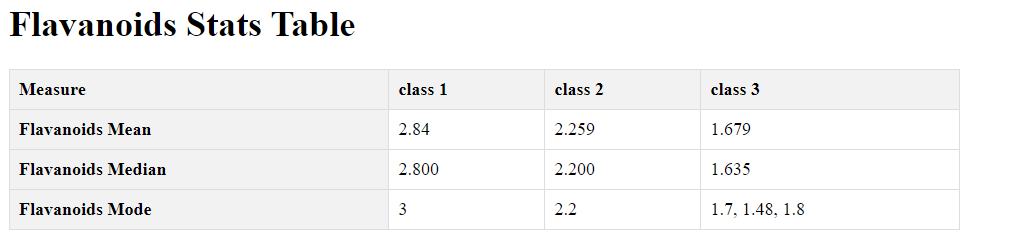
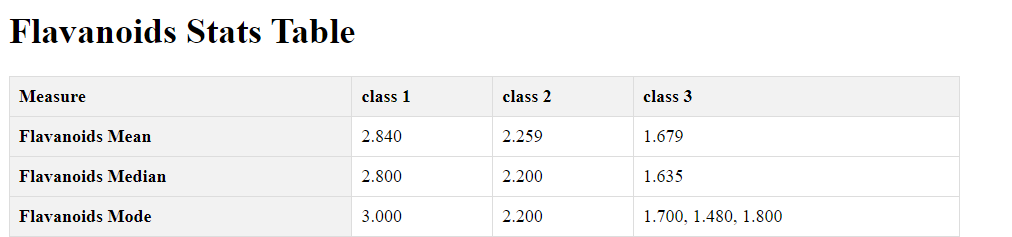
Done

diff --git a/src/components/StatsTable.jsx b/src/components/StatsTable.jsx
@@ -1,4 +1,4 @@
-import React, { useMemo } from 'react'
+import React from 'react'
 import { groupByAlcoholType, mean, median, mode } from '../helper/utilityFunctions.js';
 import '../styles/statsTable.css';
 
@@ -9,27 +9,11 @@ function StatsTable({ attribute, data }) {
     // grouped alcohol by types (this will help whenever more alcohol type is added)
     const groupedByAlcohol = groupByAlcoholType(data);
 
-    // function is only called when component mounts or data state is changed
-    const calculatedMean = useMemo(() => {
-        const arr = [];
-        Object.keys(groupedByAlcohol).map(key => arr.push(mean(groupedByAlcohol[key], attribute)))
-        return arr;
-    }, [data]);
 
-
-    // function is only called when component mounts or data state is changed
-    const calculateMode = useMemo(() => {
-        const arr = [];
-        Object.keys(groupedByAlcohol).map(key => arr.push(mode(groupedByAlcohol[key], attribute)))
-        return arr;
-    }, [data]);
-
-    // function is only called when component mounts or data state is changed
-    const calculateMedian = useMemo(() => {
-        const arr = [];
-        Object.keys(groupedByAlcohol).map(key => arr.push(median(groupedByAlcohol[key], attribute)))
-        return arr;
-    }, [data]);
+    //these array holds class wise calculated mean median and mode
+    const calculatedMean = Object.keys(groupedByAlcohol).map(key => (mean(groupedByAlcohol[key], attribute)))
+    const calculateMode = Object.keys(groupedByAlcohol).map(key => (mode(groupedByAlcohol[key], attribute)))
+    const calculateMedian = Object.keys(groupedByAlcohol).map(key => (median(groupedByAlcohol[key], attribute)))
 
 
 

diff --git a/src/helper/utilityFunctions.js b/src/helper/utilityFunctions.js
@@ -22,7 +22,7 @@ export const mean = (arrByAlcoholType, property) => {
     }
 
     const meanValue = sum / arrByAlcoholType.length;
-    return parseFloat(meanValue.toFixed(3));
+    return parseFloat(meanValue).toFixed(3);
 }
 //calculating median -> this function accepts two parameters, 1- array grouped by alcohol type, 2 - propperty on which we want to calculate
 export const median = (arr, property) => {
@@ -54,7 +54,7 @@ export const mode = (arr, property) => {
     let modes = [];
 
     arr.forEach(function (item) {
-        const value = item[property];
+        const value = parseFloat(item[property]).toFixed(3);
         if (!modeMap[value]) modeMap[value] = 0;
         modeMap[value]++;
         if (modeMap[value] > maxCount) {
@@ -76,7 +76,8 @@ export const mode = (arr, property) => {
 
 // this fucntion is creating the gamma property in our dataset. 
 export function createGamma(data, attributeName) {
-    data.forEach(point => {
-        point[attributeName] = ((parseFloat(point.Ash) * parseFloat(point.Hue)) / parseFloat(point.Magnesium)).toFixed(2);
-    });
+    return data.map(point => ({
+        ...point,
+        [attributeName]: ((parseFloat(point.Ash) * parseFloat(point.Hue)) / parseFloat(point.Magnesium)).toFixed(2)
+    }));
 }

diff --git a/src/App.js b/src/App.js
@@ -4,14 +4,22 @@ import { wineData } from './data/data.js';
 import { createGamma } from './helper/utilityFunctions.js';
 
 import StatsTable from './components/StatsTable.jsx';
-import { useMemo, useState } from 'react';
+import { useEffect, useState } from 'react';
 
 function App() {
-  //stored  data in state variable so that any time it changes it will trigger a re-render. 
+  // stored  data in state variable so that any time it changes it will trigger a re - render.
   const [data, setData] = useState(wineData);
 
-  //only calls createGamma when on component mount or data state is changed
-  useMemo(() => createGamma(data, "Gamma"), [data]);
+
+  const fetchData = () => {
+    const updatedData = createGamma(data, "Gamma");
+    setData(updatedData);
+  }
+
+  //only calls createGamma when  component mount.
+  useEffect(() => {
+    fetchData();
+  }, []);
 
 
   return (
@@ -19,6 +27,7 @@ function App() {
       {/* created a stats table component which is responsoble for calculating stats on any property */}
       <StatsTable attribute={"Flavanoids"} data={data} />
       <StatsTable attribute={"Gamma"} data={data} />
+
 
     </div>
   );
